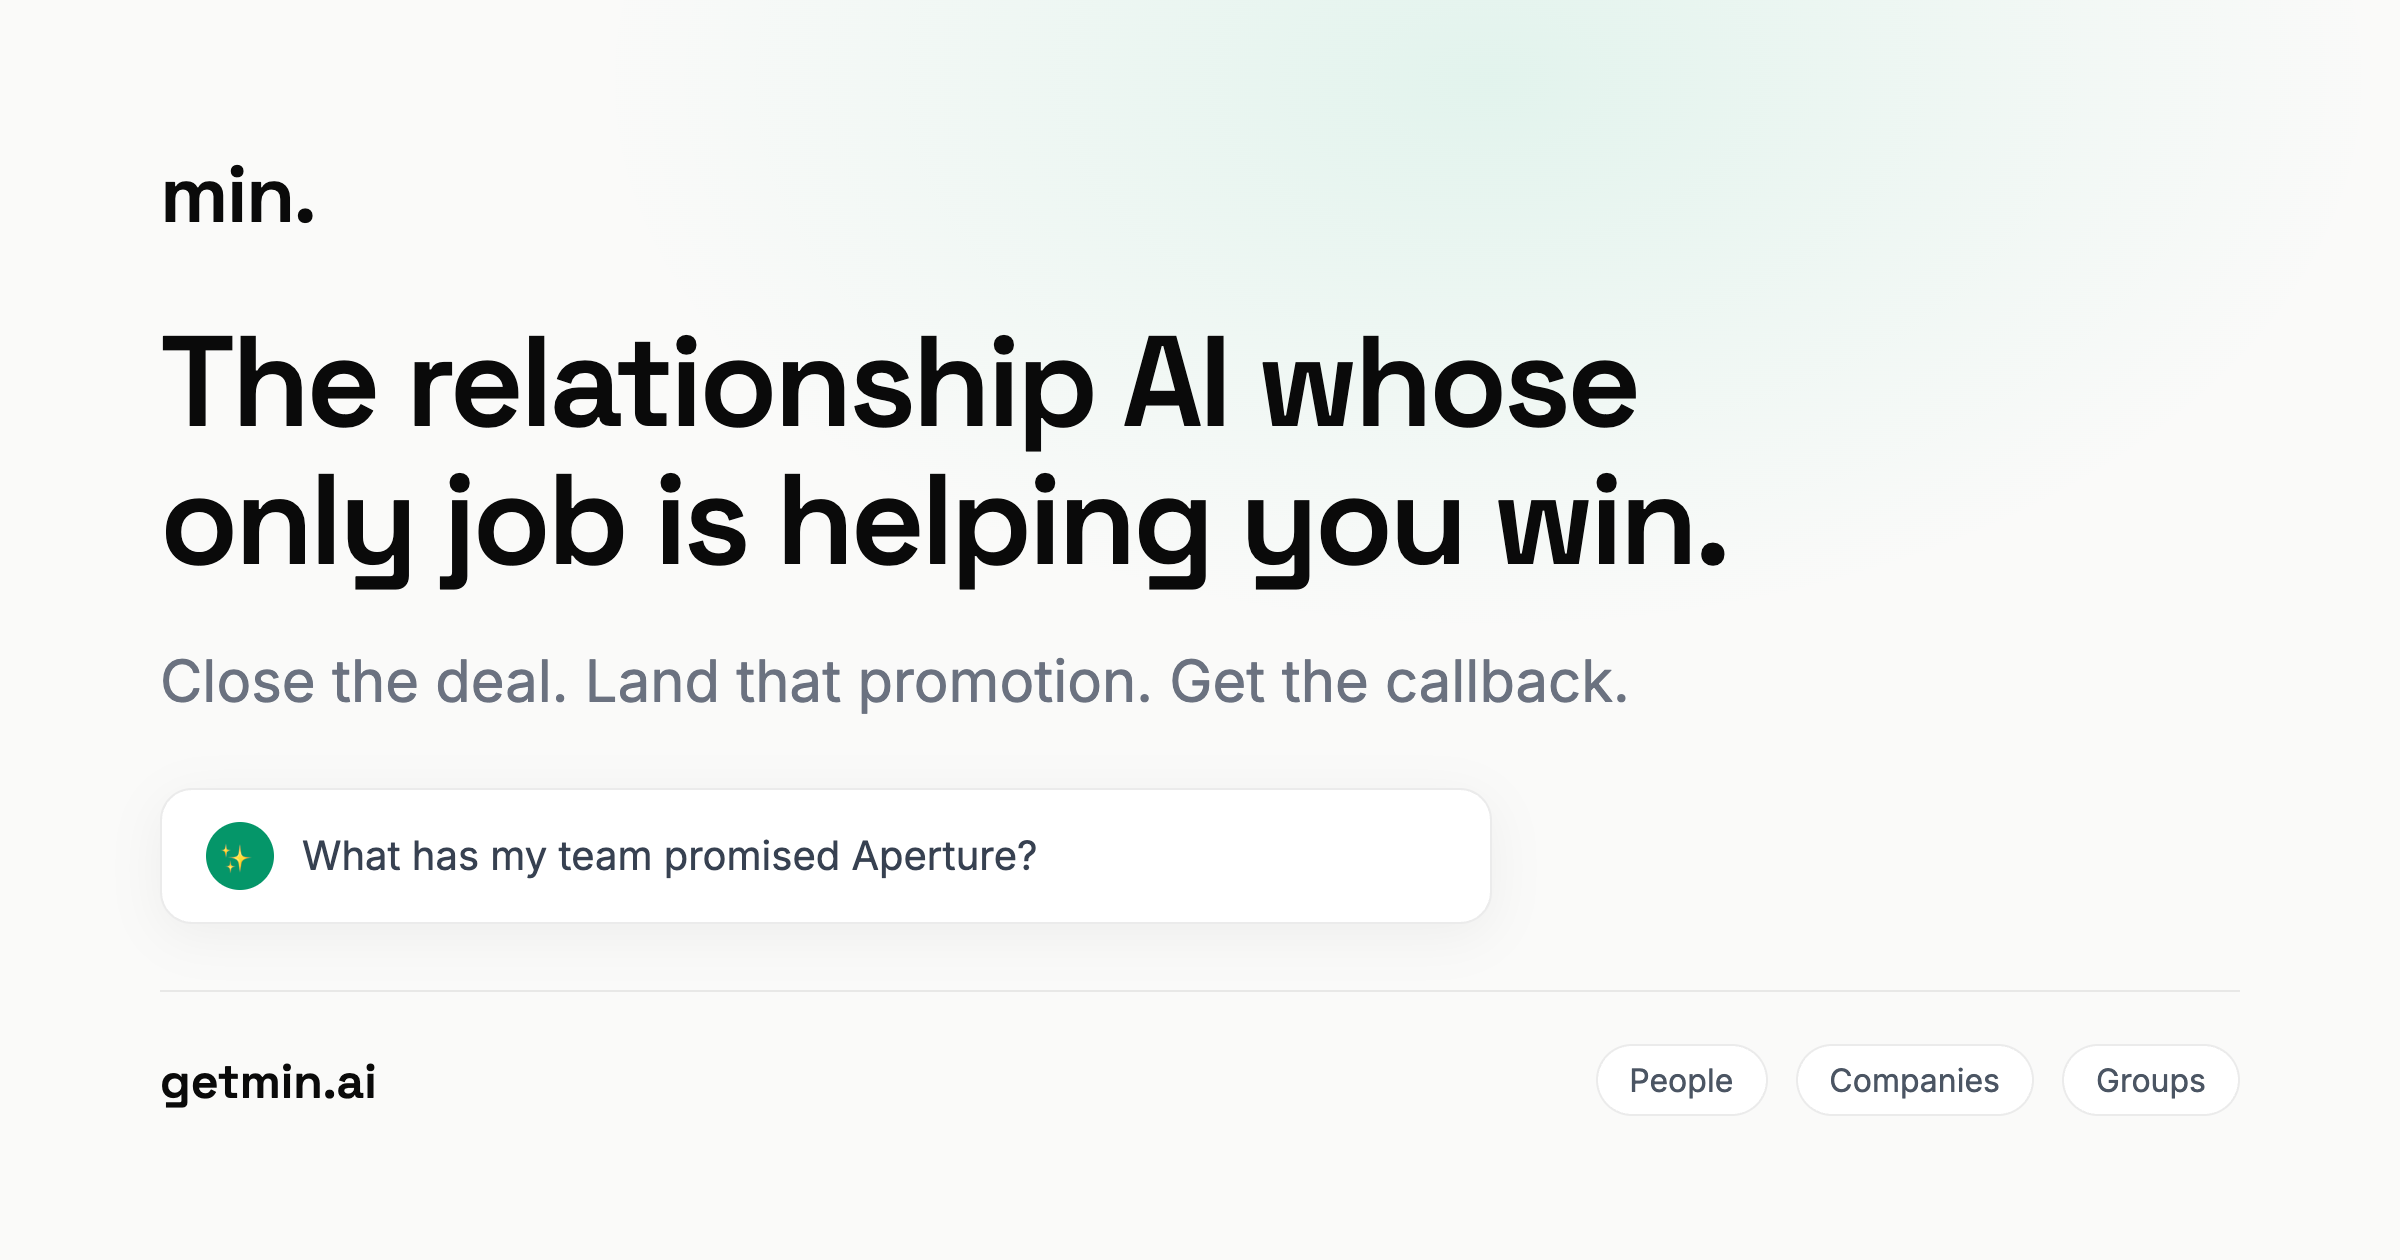
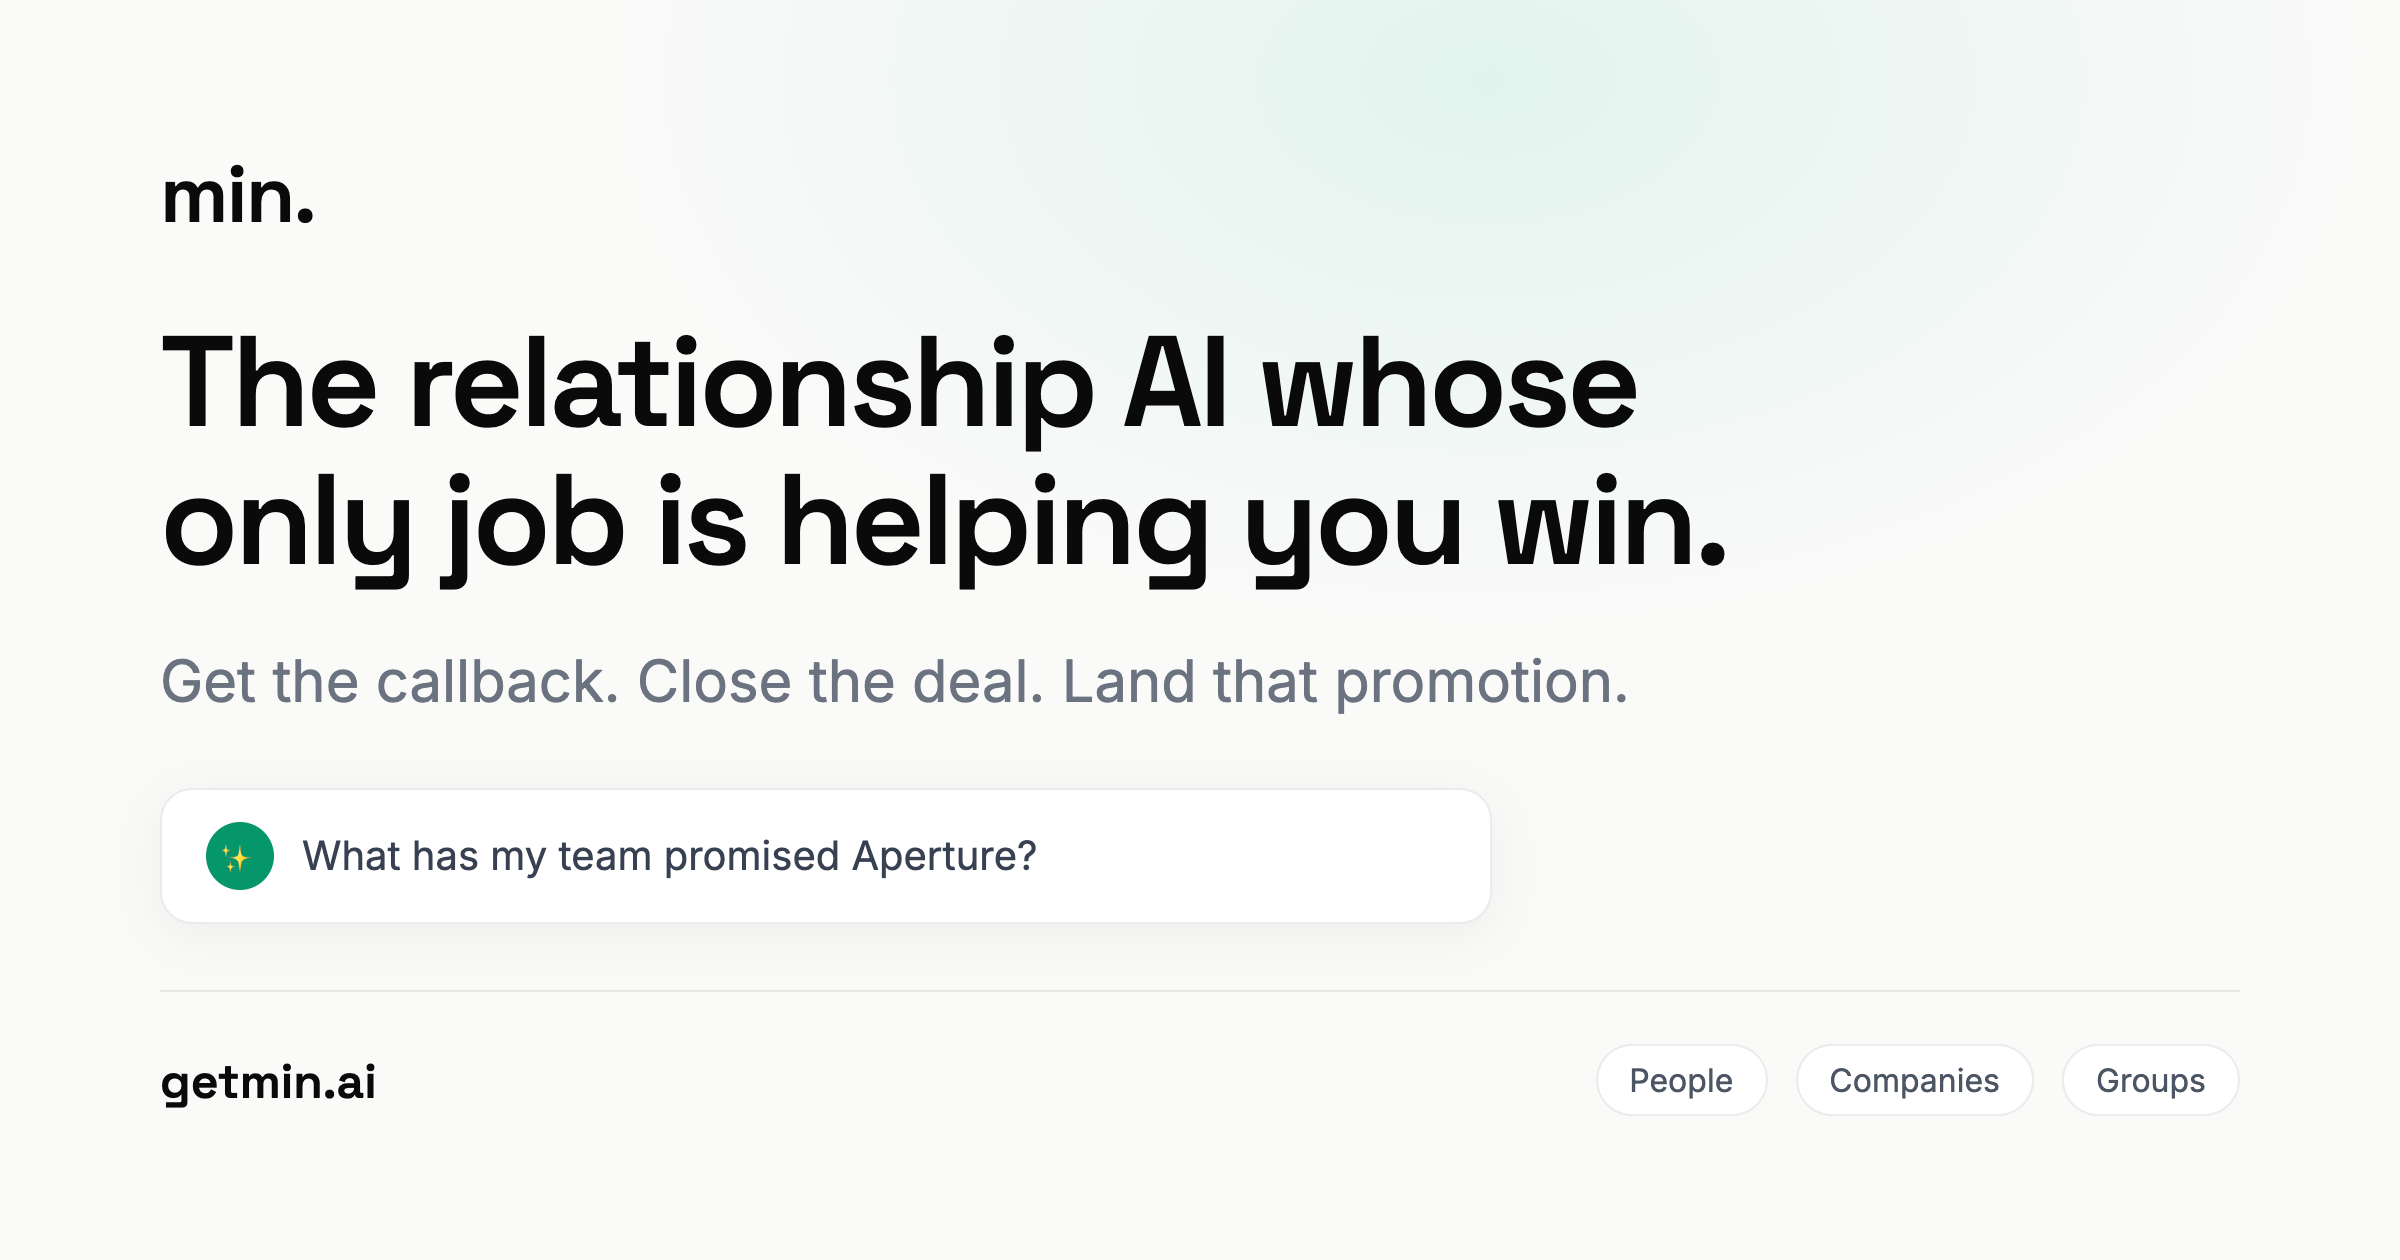
Triplet escalates: callback, then deal, then promotion
The old order peaked early and closed on the smallest stake — a callback
is a step toward a win, not a win. Reordered so it climbs: get in the
door, win the business, get rewarded for it. The strongest verb, the
biggest personal stake, and the only "that" now land together in the
emphatic final position, and the soft "get" moves to the opening slot
where it costs nothing. No new words.

Cascaded to hero sub, final CTA, meta/OG/Twitter, crawler mirror,
llms.txt, and a re-rendered OG card. Demo tabs keep deal-first, since a
menu should lead with the flagship use case.

Changed region(s): [[0.0625, 0.5262, 0.6875, 0.5571]]

diff --git a/index.html b/index.html
@@ -7,7 +7,7 @@
     <title>The relationship AI whose only job is helping you win | min.</title>
     <!-- Primary Meta Tags -->
     <meta name="title" content="The relationship AI whose only job is helping you win | min." />
-    <meta name="description" content="The relationship AI whose only job is helping you win. Close the deal. Land that promotion. Get the callback. Free for your whole team." />
+    <meta name="description" content="The relationship AI whose only job is helping you win. Get the callback. Close the deal. Land that promotion. Free for your whole team." />
     <meta name="keywords" content="relationship AI, relationship assistant, relationship memory, relationship context layer, memory layer for CRM, relationship capsule, CRM alternative, calendar and email assistant, meeting prep, follow up reminders, relationship management" />
     <meta name="author" content="min." />
 
@@ -15,7 +15,7 @@
     <meta property="og:type" content="website" />
     <meta property="og:url" content="https://getmin.ai/" />
     <meta property="og:title" content="The relationship AI whose only job is helping you win | min." />
-    <meta property="og:description" content="The relationship AI whose only job is helping you win. Close the deal. Land that promotion. Get the callback. Free for your whole team." />
+    <meta property="og:description" content="The relationship AI whose only job is helping you win. Get the callback. Close the deal. Land that promotion. Free for your whole team." />
     <meta property="og:image" content="https://getmin.ai/og-cover.png" />
     <meta property="og:image:width" content="2400" />
     <meta property="og:image:height" content="1260" />
@@ -27,7 +27,7 @@
     <meta name="twitter:card" content="summary_large_image" />
     <meta name="twitter:url" content="https://getmin.ai/" />
     <meta name="twitter:title" content="The relationship AI whose only job is helping you win | min." />
-    <meta name="twitter:description" content="The relationship AI whose only job is helping you win. Close the deal. Land that promotion. Get the callback. Free for your whole team." />
+    <meta name="twitter:description" content="The relationship AI whose only job is helping you win. Get the callback. Close the deal. Land that promotion. Free for your whole team." />
     <meta name="twitter:image" content="https://getmin.ai/og-cover.png" />
     <meta name="twitter:image:alt" content="min. — the relationship AI whose only job is helping you win" />
     <meta name="twitter:creator" content="@getminai" />
@@ -165,7 +165,7 @@
       <main hidden>
         <h1>The relationship AI whose only job is helping you win.</h1>
         <p>
-          Close the deal. Land that promotion. Get the callback. It turns
+          Get the callback. Close the deal. Land that promotion. It turns
           every call and email into your edge.
         </p>
         <p>For macOS and Windows. Google and Outlook calendars. Two minute setup.</p>
@@ -211,8 +211,8 @@
         <h2>Every relationship, working for you.</h2>
         <p>
           The whole history distilled, the next move drafted, the follow up
-          already on the calendar. Close the deal. Land that promotion. Get the
-          callback.
+          already on the calendar. Get the callback. Close the deal. Land that
+          promotion.
         </p>
         <nav>
           <a href="https://app.getmin.ai/download/min-mac-arm64.dmg">Download for macOS</a>

diff --git a/src/components/landing/FinalCTA.tsx b/src/components/landing/FinalCTA.tsx
@@ -22,8 +22,8 @@ export default function FinalCTA() {
             </h2>
             <p className="mx-auto mb-10 max-w-xl text-lg leading-relaxed text-gray-400">
               The whole history distilled, the next move drafted, the follow
-              up already on the calendar. Close the deal. Land that promotion.
-              Get the callback.
+              up already on the calendar. Get the callback. Close the deal.
+              Land that promotion.
             </p>
             <div className="flex flex-col items-center justify-center gap-4 sm:flex-row">
               <a

diff --git a/src/pages/Index.tsx b/src/pages/Index.tsx
@@ -14,7 +14,7 @@ const Index = () => {
         <title>The relationship AI whose only job is helping you win | min.</title>
         <meta
           name="description"
-          content="The relationship AI whose only job is helping you win. Close the deal. Land that promotion. Get the callback. Free for your whole team."
+          content="The relationship AI whose only job is helping you win. Get the callback. Close the deal. Land that promotion. Free for your whole team."
         />
         <link rel="canonical" href="https://getmin.ai" />
       </Helmet>

diff --git a/src/components/landing/LandingHero.tsx b/src/components/landing/LandingHero.tsx
@@ -21,7 +21,7 @@ export default function LandingHero() {
 
           <FadeIn delay={0.18}>
             <p className="mx-auto mt-6 max-w-xl text-[17px] leading-relaxed text-gray-500 lg:mx-0">
-              Close the deal. Land that promotion. Get the callback. It turns
+              Get the callback. Close the deal. Land that promotion. It turns
               every call and email into your edge.
             </p>
           </FadeIn>

diff --git a/public/og-image.html b/public/og-image.html
@@ -151,7 +151,7 @@
                     The relationship AI whose<br>only job is helping you win.
                 </div>
                 <div class="subheadline">
-                    Close the deal. Land that promotion. Get the callback.
+                    Get the callback. Close the deal. Land that promotion.
                 </div>
             </div>
 
